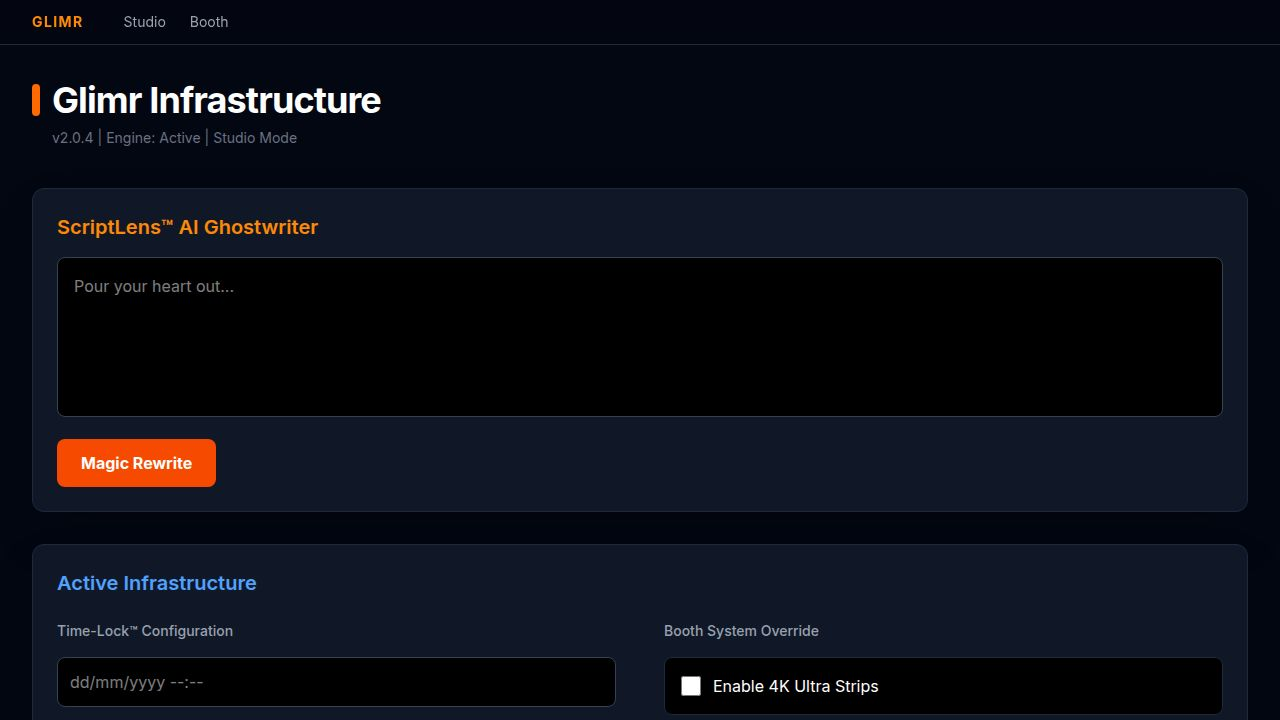
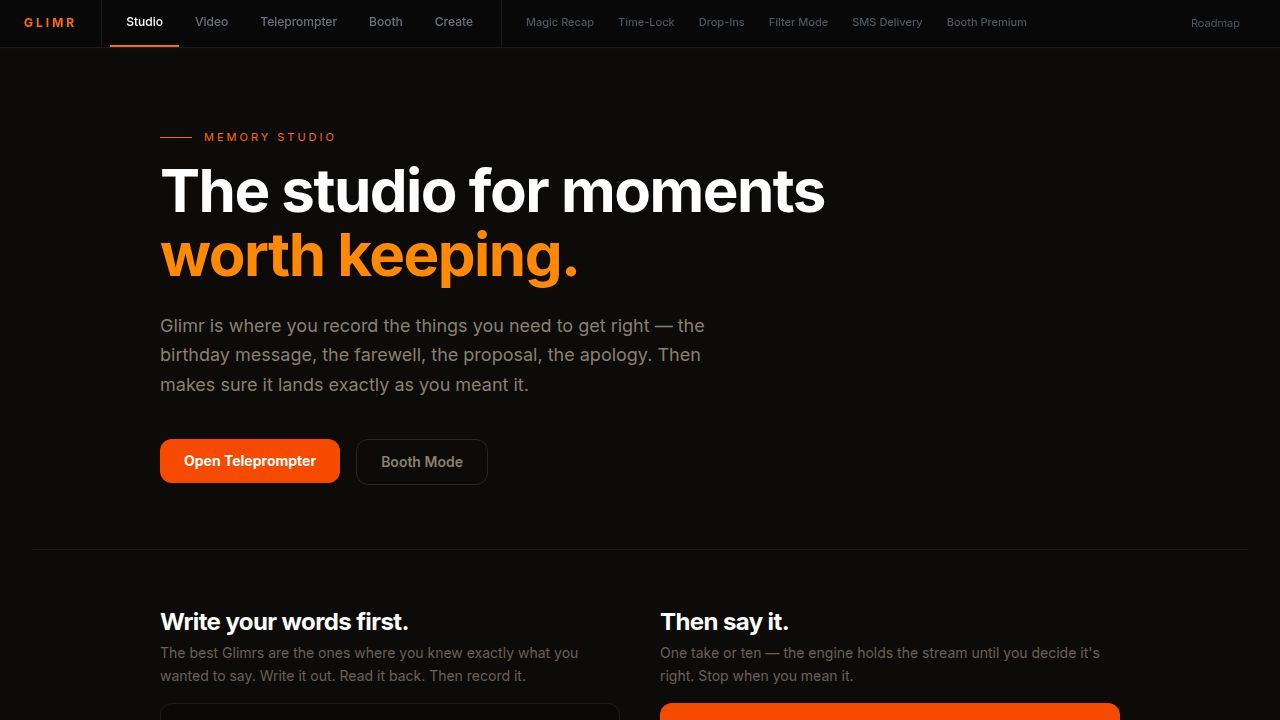
Add an animated video feature to the application
Integrate a new animated video component with five distinct scenes and a custom hook for managing scene transitions and playback.

Replit-Commit-Author: Agent
Replit-Commit-Session-Id: 826f48f5-a842-46a0-bdf7-ed06c2bd6792
Replit-Commit-Checkpoint-Type: full_checkpoint
Replit-Commit-Event-Id: a60d6bb0-cfeb-4f43-b5d8-74373133f1f6
Replit-Commit-Screenshot-Url: https://storage.googleapis.com/screenshot-production-us-central1/d2c17132-279e-4c62-a827-c3c79ae46ec2/826f48f5-a842-46a0-bdf7-ed06c2bd6792/2EvSMOT
Replit-Helium-Checkpoint-Created: true

diff --git a/artifacts/glimr/src/components/video/video_scenes/Scene1.tsx b/artifacts/glimr/src/components/video/video_scenes/Scene1.tsx
@@ -1,0 +1,55 @@
+import { motion } from 'framer-motion';
+import { useState, useEffect } from 'react';
+
+export function Scene1() {
+  const [phase, setPhase] = useState(0);
+
+  useEffect(() => {
+    const timers = [
+      setTimeout(() => setPhase(1), 500),
+      setTimeout(() => setPhase(2), 1500),
+      setTimeout(() => setPhase(3), 2500),
+      setTimeout(() => setPhase(4), 4500),
+    ];
+    return () => timers.forEach(t => clearTimeout(t));
+  }, []);
+
+  return (
+    <motion.div 
+      className="absolute inset-0 flex items-center justify-center bg-black/40"
+      initial={{ opacity: 0, scale: 1.1 }}
+      animate={{ opacity: 1, scale: 1 }}
+      exit={{ opacity: 0, scale: 0.9, filter: 'blur(10px)' }}
+      transition={{ duration: 0.8 }}
+    >
+      <div className="text-center px-12 relative z-10 flex flex-col items-center">
+        <motion.div
+          initial={{ opacity: 0, y: 30 }}
+          animate={phase >= 1 ? { opacity: 1, y: 0 } : { opacity: 0, y: 30 }}
+          transition={{ duration: 0.8, ease: "easeOut" }}
+          className="mb-6 w-24 h-24 rounded-2xl bg-gradient-to-br from-rose-500 to-indigo-600 shadow-2xl flex items-center justify-center"
+        >
+          <div className="w-12 h-12 rounded-full border-4 border-white/80" />
+        </motion.div>
+        
+        <motion.h1 
+          className="text-[6vw] font-black tracking-tighter text-white leading-tight"
+          initial={{ opacity: 0, y: 20 }}
+          animate={phase >= 2 ? { opacity: 1, y: 0 } : { opacity: 0, y: 20 }}
+          transition={{ duration: 0.8, ease: "easeOut" }}
+        >
+          Glimr Studio
+        </motion.h1>
+
+        <motion.p 
+          className="text-[2vw] text-white/70 mt-6 font-medium tracking-wide"
+          initial={{ opacity: 0, filter: 'blur(10px)' }}
+          animate={phase >= 3 ? { opacity: 1, filter: 'blur(0px)' } : { opacity: 0, filter: 'blur(10px)' }}
+          transition={{ duration: 1 }}
+        >
+          Messages worth keeping.
+        </motion.p>
+      </div>
+    </motion.div>
+  );
+}

diff --git a/artifacts/glimr/src/components/video/video_scenes/Scene2.tsx b/artifacts/glimr/src/components/video/video_scenes/Scene2.tsx
@@ -1,0 +1,50 @@
+import { motion } from 'framer-motion';
+
+export function Scene2() {
+  return (
+    <motion.div 
+      className="absolute inset-0 flex flex-col items-center justify-center"
+      initial={{ opacity: 0, x: '100vw' }}
+      animate={{ opacity: 1, x: 0 }}
+      exit={{ opacity: 0, x: '-100vw' }}
+      transition={{ type: "spring", stiffness: 100, damping: 20 }}
+    >
+      <div className="text-center mb-12">
+        <motion.h2 
+          className="text-[4vw] font-bold text-white mb-4"
+          initial={{ opacity: 0, y: 20 }}
+          animate={{ opacity: 1, y: 0 }}
+          transition={{ delay: 0.5 }}
+        >
+          The Studio
+        </motion.h2>
+        <motion.p 
+          className="text-[1.5vw] text-rose-400"
+          initial={{ opacity: 0 }}
+          animate={{ opacity: 1 }}
+          transition={{ delay: 0.8 }}
+        >
+          Pro recording. Built-in Teleprompter.
+        </motion.p>
+      </div>
+      
+      <motion.div 
+        className="w-[60vw] h-[35vw] rounded-3xl border border-white/10 bg-black/50 overflow-hidden relative"
+        initial={{ opacity: 0, scale: 0.8 }}
+        animate={{ opacity: 1, scale: 1 }}
+        transition={{ delay: 1, duration: 0.8 }}
+      >
+        <div className="absolute top-8 w-full flex justify-center z-20">
+          <motion.div 
+            className="px-6 py-3 rounded-full bg-black/60 backdrop-blur-md border border-white/10 text-white/90 text-[1.2vw]"
+            initial={{ opacity: 0, y: -20 }}
+            animate={{ opacity: 1, y: 0 }}
+            transition={{ delay: 1.5 }}
+          >
+            "I just wanted to say how much you mean to me..."
+          </motion.div>
+        </div>
+      </motion.div>
+    </motion.div>
+  );
+}

diff --git a/artifacts/glimr/src/components/video/VideoTemplate.tsx b/artifacts/glimr/src/components/video/VideoTemplate.tsx
@@ -1,0 +1,48 @@
+import { motion, AnimatePresence } from 'framer-motion';
+import { useVideoPlayer } from '@/lib/video';
+import { Scene1 } from './video_scenes/Scene1';
+import { Scene2 } from './video_scenes/Scene2';
+import { Scene3 } from './video_scenes/Scene3';
+import { Scene4 } from './video_scenes/Scene4';
+import { Scene5 } from './video_scenes/Scene5';
+
+const SCENE_DURATIONS = { intro: 5000, studio: 6000, moments: 6000, express: 6000, outro: 5000 };
+
+export default function VideoTemplate() {
+  const { currentScene } = useVideoPlayer({ durations: SCENE_DURATIONS });
+
+  return (
+    <div className="relative w-full h-screen overflow-hidden bg-zinc-950 font-sans">
+      {/* Background layer */}
+      <div className="absolute inset-0">
+        <motion.div className="absolute w-[80vw] h-[80vw] rounded-full opacity-20 blur-[100px]"
+          style={{ background: 'radial-gradient(circle, #f43f5e, transparent)' }}
+          animate={{ 
+            x: ['-20%', '40%', '10%'], 
+            y: ['10%', '60%', '20%'], 
+            scale: [1, 1.2, 0.9],
+            opacity: [0.1, 0.2, 0.15]
+          }}
+          transition={{ duration: 15, repeat: Infinity, ease: 'easeInOut' }} 
+        />
+        <motion.div className="absolute w-[60vw] h-[60vw] rounded-full opacity-15 blur-[100px] right-0 bottom-0"
+          style={{ background: 'radial-gradient(circle, #3b82f6, transparent)' }}
+          animate={{ 
+            x: ['20%', '-30%', '10%'], 
+            y: ['-10%', '-40%', '-10%'],
+            scale: [1, 1.1, 1]
+          }}
+          transition={{ duration: 18, repeat: Infinity, ease: 'easeInOut' }} 
+        />
+      </div>
+
+      <AnimatePresence mode="popLayout">
+        {currentScene === 0 && <Scene1 key="intro" />}
+        {currentScene === 1 && <Scene2 key="studio" />}
+        {currentScene === 2 && <Scene3 key="moments" />}
+        {currentScene === 3 && <Scene4 key="express" />}
+        {currentScene === 4 && <Scene5 key="outro" />}
+      </AnimatePresence>
+    </div>
+  );
+}

diff --git a/artifacts/glimr/src/components/video/video_scenes/Scene3.tsx b/artifacts/glimr/src/components/video/video_scenes/Scene3.tsx
@@ -1,0 +1,46 @@
+import { motion } from 'framer-motion';
+
+export function Scene3() {
+  return (
+    <motion.div 
+      className="absolute inset-0 flex items-center justify-center"
+      initial={{ opacity: 0, scale: 0.5, filter: 'blur(20px)' }}
+      animate={{ opacity: 1, scale: 1, filter: 'blur(0px)' }}
+      exit={{ opacity: 0, scale: 1.5, filter: 'blur(20px)' }}
+      transition={{ duration: 1 }}
+    >
+      <div className="flex flex-col items-center">
+        <motion.h2 
+          className="text-[5vw] font-black text-white mb-12 text-center"
+          initial={{ opacity: 0, y: 30 }}
+          animate={{ opacity: 1, y: 0 }}
+          transition={{ delay: 0.3 }}
+        >
+          Magical Moments
+        </motion.h2>
+        
+        <div className="flex gap-8">
+          <motion.div 
+            className="w-[25vw] h-[35vw] rounded-2xl bg-gradient-to-b from-indigo-500/20 to-purple-900/40 border border-white/20 p-8 flex flex-col justify-end"
+            initial={{ opacity: 0, y: 50, rotateX: 45 }}
+            animate={{ opacity: 1, y: 0, rotateX: 0 }}
+            transition={{ delay: 0.6, type: "spring" }}
+          >
+            <h3 className="text-white text-[2vw] font-bold">Magic Recap</h3>
+            <p className="text-white/60 text-[1.2vw]">Turn memories into cinematic cards.</p>
+          </motion.div>
+          
+          <motion.div 
+            className="w-[25vw] h-[35vw] rounded-2xl bg-gradient-to-b from-rose-500/20 to-orange-900/40 border border-white/20 p-8 flex flex-col justify-end"
+            initial={{ opacity: 0, y: 50, rotateX: 45 }}
+            animate={{ opacity: 1, y: 0, rotateX: 0 }}
+            transition={{ delay: 0.8, type: "spring" }}
+          >
+            <h3 className="text-white text-[2vw] font-bold">Time-Lock</h3>
+            <p className="text-white/60 text-[1.2vw]">Deliver exactly on their birthday.</p>
+          </motion.div>
+        </div>
+      </div>
+    </motion.div>
+  );
+}

diff --git a/artifacts/glimr/src/lib/video/hooks.ts b/artifacts/glimr/src/lib/video/hooks.ts
@@ -1,0 +1,42 @@
+import { useState, useEffect } from "react";
+
+export function useVideoPlayer({ durations }: { durations: Record<string, number> }) {
+  const [currentScene, setCurrentScene] = useState(0);
+
+  useEffect(() => {
+    const sceneKeys = Object.keys(durations);
+    const durationValues = Object.values(durations);
+    const totalScenes = durationValues.length;
+    
+    // Attempt to start recording if the global hook exists
+    if (typeof window !== "undefined" && (window as any).startRecording) {
+      (window as any).startRecording();
+    }
+
+    let timeout: NodeJS.Timeout;
+    let hasStopped = false;
+
+    const playScene = (index: number) => {
+      setCurrentScene(index);
+      
+      timeout = setTimeout(() => {
+        const nextIndex = index + 1;
+        if (nextIndex >= totalScenes) {
+          if (!hasStopped && typeof window !== "undefined" && (window as any).stopRecording) {
+            (window as any).stopRecording();
+            hasStopped = true;
+          }
+          playScene(0); // Loop
+        } else {
+          playScene(nextIndex);
+        }
+      }, durationValues[index] || 3000);
+    };
+
+    playScene(0);
+
+    return () => clearTimeout(timeout);
+  }, [JSON.stringify(durations)]);
+
+  return { currentScene };
+}

diff --git a/artifacts/glimr/src/components/video/video_scenes/Scene4.tsx b/artifacts/glimr/src/components/video/video_scenes/Scene4.tsx
@@ -1,0 +1,40 @@
+import { motion } from 'framer-motion';
+
+export function Scene4() {
+  return (
+    <motion.div 
+      className="absolute inset-0 flex flex-col items-center justify-center overflow-hidden"
+      initial={{ opacity: 0 }}
+      animate={{ opacity: 1 }}
+      exit={{ opacity: 0 }}
+      transition={{ duration: 0.8 }}
+    >
+      <motion.h2 
+        className="text-[4vw] font-bold text-white mb-16"
+        initial={{ opacity: 0, y: -20 }}
+        animate={{ opacity: 1, y: 0 }}
+        transition={{ delay: 0.3 }}
+      >
+        Express Yourself
+      </motion.h2>
+
+      <div className="flex gap-6 items-center">
+        {[
+          { title: "Photo Booth", delay: 0.5, color: "from-blue-500" },
+          { title: "Celebrity Drop-ins", delay: 0.7, color: "from-emerald-500" },
+          { title: "Live Filters", delay: 0.9, color: "from-pink-500" }
+        ].map((item, i) => (
+          <motion.div 
+            key={i}
+            className={`w-[20vw] h-[20vw] rounded-full bg-gradient-to-br ${item.color} to-transparent border border-white/10 flex items-center justify-center p-6 text-center`}
+            initial={{ opacity: 0, scale: 0, rotate: -90 }}
+            animate={{ opacity: 1, scale: 1, rotate: 0 }}
+            transition={{ delay: item.delay, type: "spring", stiffness: 100 }}
+          >
+            <span className="text-white text-[1.8vw] font-medium leading-tight">{item.title}</span>
+          </motion.div>
+        ))}
+      </div>
+    </motion.div>
+  );
+}

diff --git a/artifacts/glimr/src/components/video/video_scenes/Scene5.tsx b/artifacts/glimr/src/components/video/video_scenes/Scene5.tsx
@@ -1,0 +1,40 @@
+import { motion } from 'framer-motion';
+
+export function Scene5() {
+  return (
+    <motion.div 
+      className="absolute inset-0 flex flex-col items-center justify-center bg-black"
+      initial={{ opacity: 0 }}
+      animate={{ opacity: 1 }}
+      exit={{ opacity: 0, filter: "blur(20px)" }}
+      transition={{ duration: 1 }}
+    >
+      <motion.div
+        className="w-32 h-32 rounded-2xl bg-gradient-to-br from-rose-500 to-indigo-600 shadow-2xl flex items-center justify-center mb-10"
+        initial={{ scale: 0, rotate: 180 }}
+        animate={{ scale: 1, rotate: 0 }}
+        transition={{ type: "spring", delay: 0.3 }}
+      >
+        <div className="w-16 h-16 rounded-full border-4 border-white/80" />
+      </motion.div>
+      
+      <motion.h1 
+        className="text-[7vw] font-black text-white tracking-tighter"
+        initial={{ opacity: 0, y: 20 }}
+        animate={{ opacity: 1, y: 0 }}
+        transition={{ delay: 0.6 }}
+      >
+        Glimr Studio
+      </motion.h1>
+      
+      <motion.p 
+        className="text-[2.5vw] text-white/60 mt-4"
+        initial={{ opacity: 0 }}
+        animate={{ opacity: 1 }}
+        transition={{ delay: 1.2, duration: 1 }}
+      >
+        Send a Glimr.
+      </motion.p>
+    </motion.div>
+  );
+}

diff --git a/artifacts/glimr/src/App.tsx b/artifacts/glimr/src/App.tsx
@@ -16,10 +16,13 @@ import SMSDeliveryPage from "@/pages/features/SMSDeliveryPage";
 import BoothPremiumPage from "@/pages/features/BoothPremiumPage";
 import NotFound from "@/pages/not-found";
 
+import VideoTemplate from "@/components/video/VideoTemplate";
+
 const queryClient = new QueryClient();
 
 const NAV_LINKS = [
   { href: "/", label: "Studio" },
+  { href: "/video", label: "Video" },
   { href: "/teleprompter", label: "Teleprompter" },
   { href: "/booth", label: "Booth" },
   { href: "/create", label: "Create" },
@@ -100,6 +103,7 @@ function Router() {
       <div className="pt-[49px]">
         <Switch>
           <Route path="/" component={StudioPage} />
+          <Route path="/video" component={VideoTemplate} />
           <Route path="/teleprompter" component={TeleprompterPage} />
           <Route path="/booth" component={BoothStripPage} />
           <Route path="/create" component={CreateGlimr} />

diff --git a/artifacts/glimr/src/lib/video/index.ts b/artifacts/glimr/src/lib/video/index.ts
@@ -1,0 +1,1 @@
+export { useVideoPlayer } from './hooks';